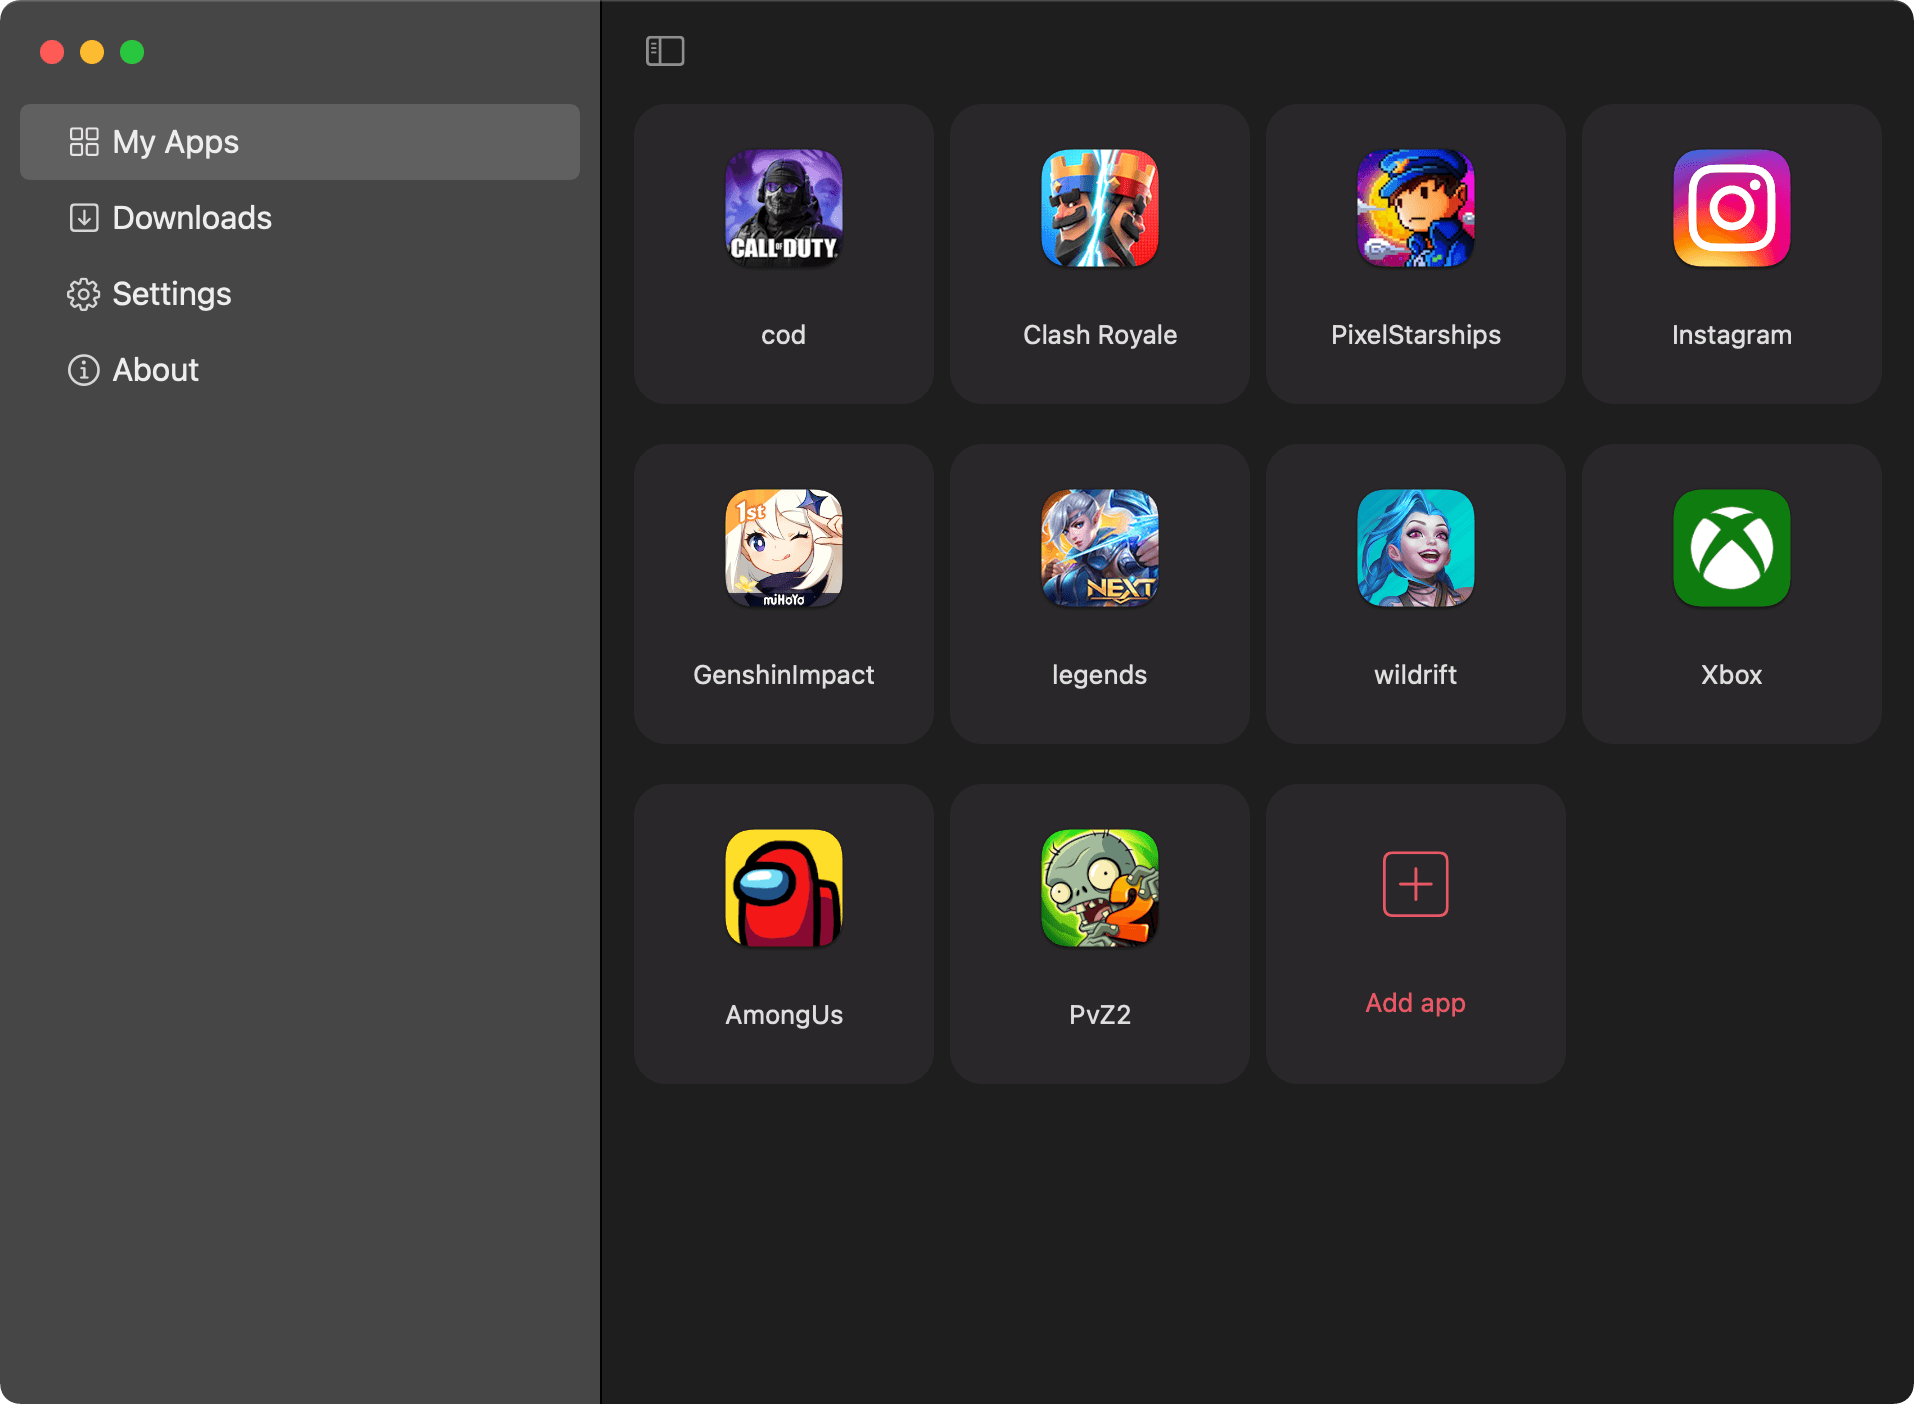
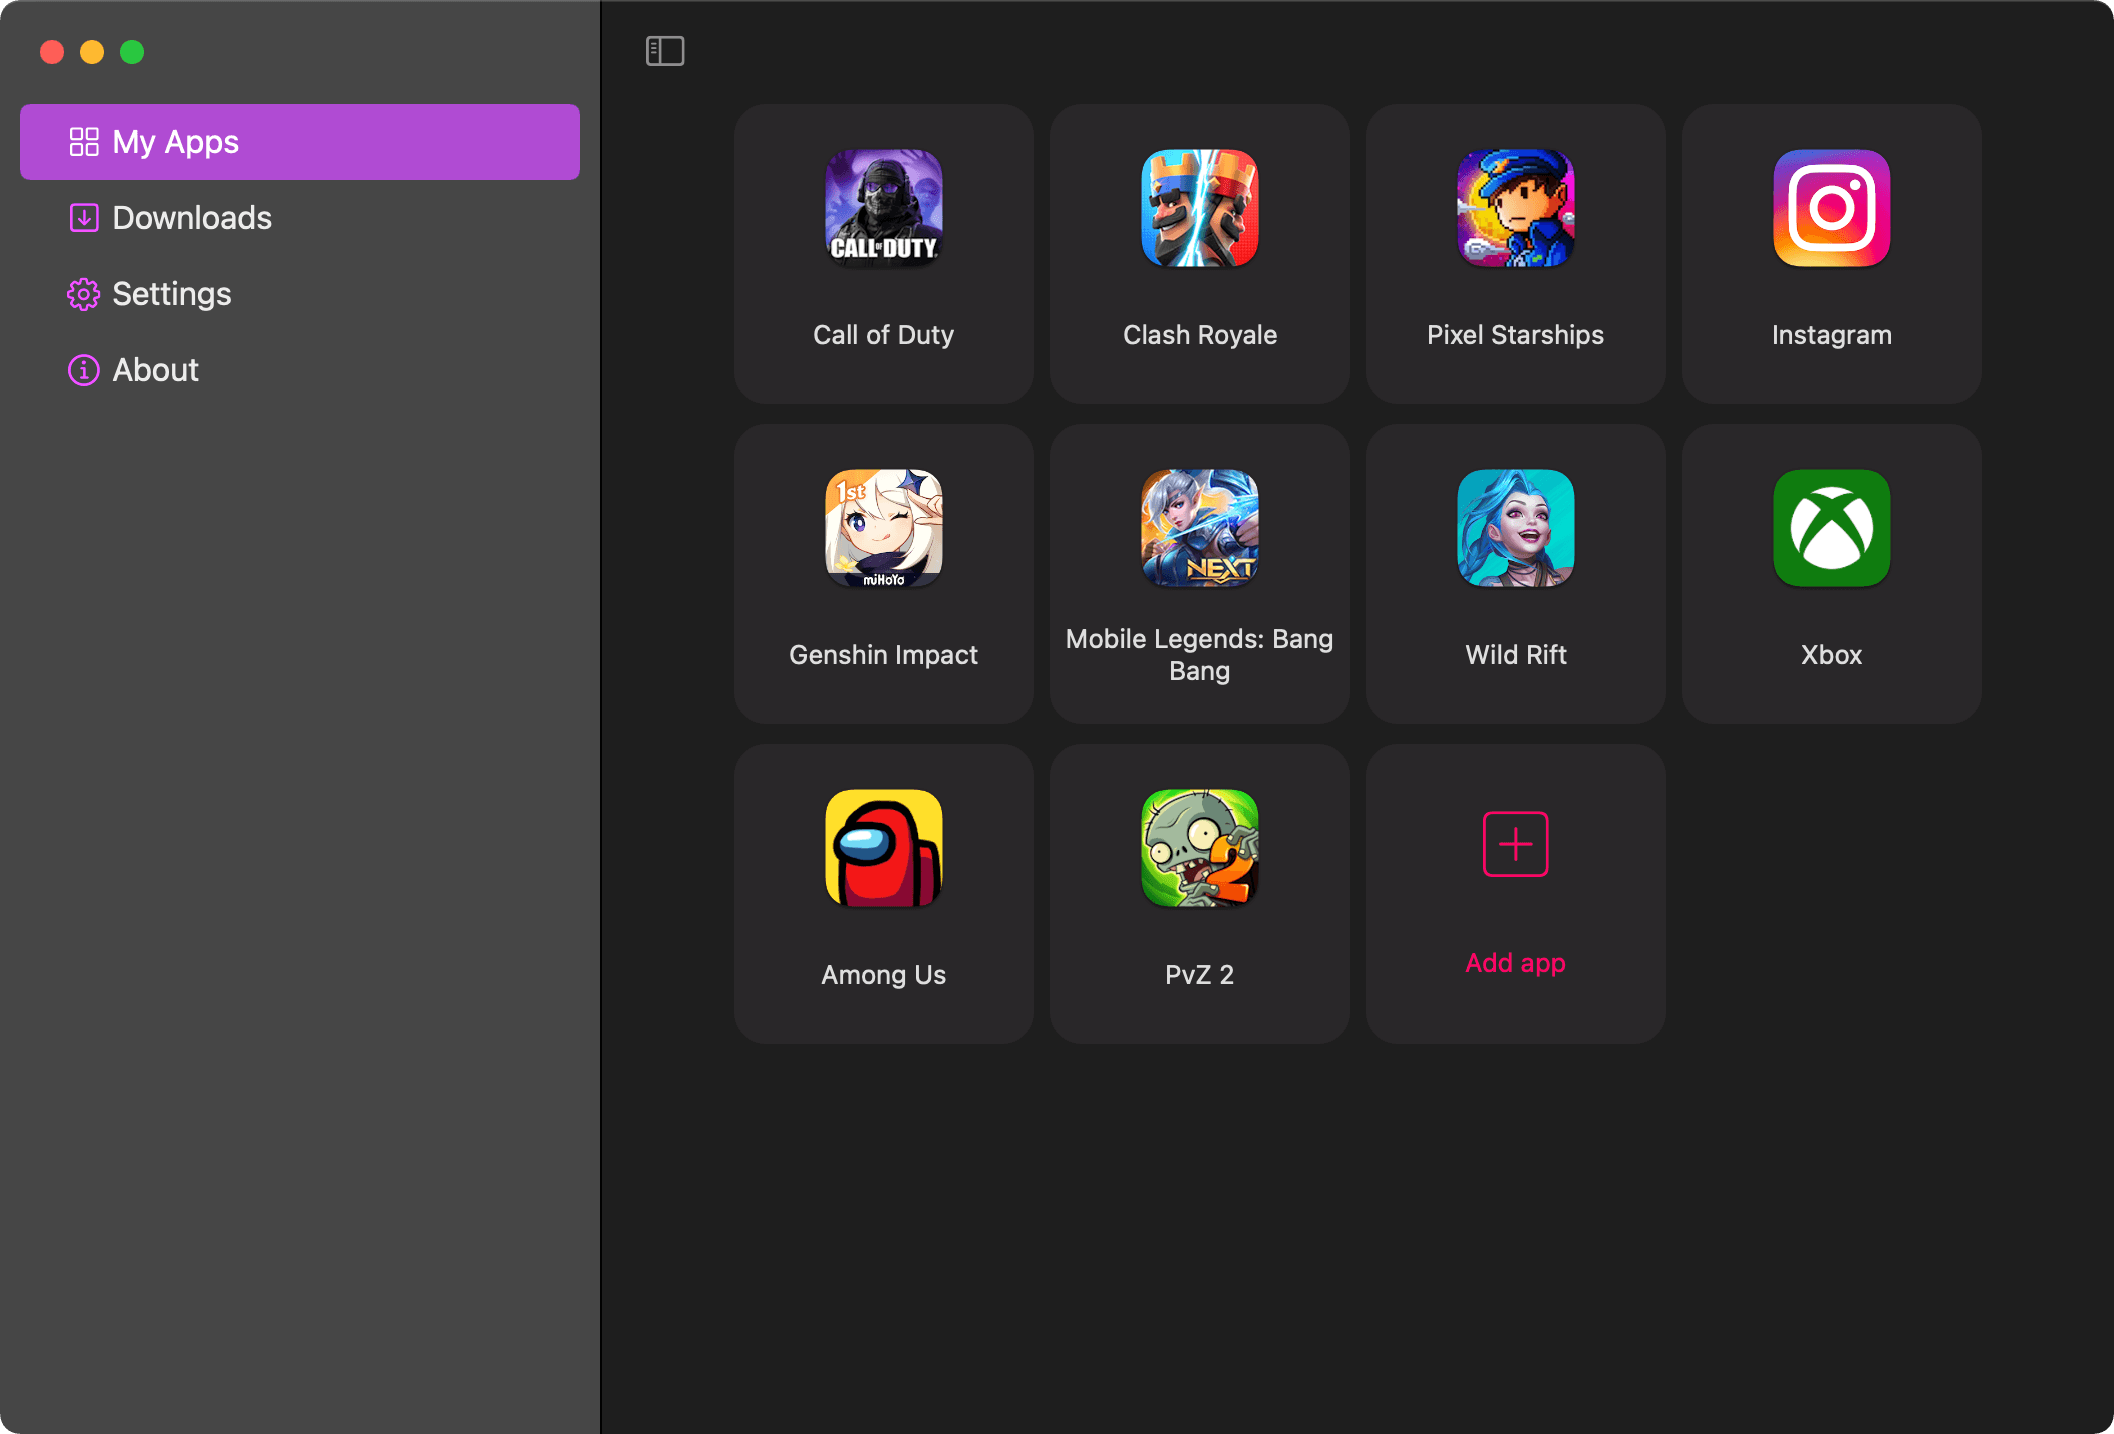
added new screenshots

diff --git a/public/index.html b/public/index.html
@@ -175,7 +175,7 @@
 		<div class="auto-closer hidden z-10 w-[100%] h-2 absolute"></div>
 
 		<!-- content -->
-		<main>
+		<main class="2xl:pt-8">
 			<!-- hero section -->
 			<section id="hero-content" class="flex flex-col items-center lg:items-start lg:flex-row justify-center space-y-10 lg:space-y-0 lg:space-x-20 2xl:space-x-48 pt-28 pb-4 md:pb-8 lg:mt-auto">
 				<!-- text -->
@@ -240,9 +240,9 @@
 						<!-- bg gradient -->
 						<!-- <div class="rounded-lg absolute -inset-0.5 bg-gradient-to-b from-red-500 to-yellow-500 blur opacity-30 dark:opacity-40 md:group-hover:opacity-50 md:dark:group-hover:opacity-70 transform md:group-hover:scale-105 transition ease-out duration-1000 group-hover:duration-700"></div> -->
 
-						<img class="shadow-md dark:hidden max-w-xs md:max-w-[44.7rem] 2xl:max-w-[55rem] rounded-lg transition ease-out duration-1000 group-hover:duration-700" src="/assets/playcover-screenshot-light.png" alt="playcover screenshot light" />
+						<img class="shadow-md dark:hidden max-w-xs md:max-w-[48rem] 2xl:max-w-[58.5rem] rounded-lg transition ease-out duration-1000 group-hover:duration-700" src="/assets/playcover-screenshot-light.png" alt="playcover screenshot light" />
 
-						<img class="shadow-md hidden dark:block max-w-xs md:max-w-[44.7rem] 2xl:max-w-[55rem] rounded-lg transition ease-out duration-1000 group-hover:duration-700" src="/assets/playcover-screenshot-dark.png" alt="playcover screenshot light" />
+						<img class="shadow-md hidden dark:block max-w-xs md:max-w-[48rem] 2xl:max-w-[58.5rem] rounded-lg transition ease-out duration-1000 group-hover:duration-700" src="/assets/playcover-screenshot-dark.png" alt="playcover screenshot dark" />
 					</div>
 				</div>
 			</section>

diff --git a/public/lang/cn/index.html b/public/lang/cn/index.html
@@ -175,7 +175,7 @@
 		<div class="auto-closer hidden z-10 w-[100%] h-2 absolute"></div>
 
 		<!-- content -->
-		<main>
+		<main class="2xl:pt-8">
 			<!-- hero section -->
 			<section id="hero-content" class="flex flex-col items-center lg:items-start lg:flex-row justify-center space-y-10 lg:space-y-0 lg:space-x-20 2xl:space-x-48 pt-28 pb-4 md:pb-8 lg:mt-auto">
 				<!-- text -->
@@ -240,9 +240,9 @@
 						<!-- bg gradient -->
 						<!-- <div class="rounded-lg absolute -inset-0.5 bg-gradient-to-b from-red-500 to-yellow-500 blur opacity-30 dark:opacity-40 md:group-hover:opacity-50 md:dark:group-hover:opacity-70 transform md:group-hover:scale-105 transition ease-out duration-1000 group-hover:duration-700"></div> -->
 
-						<img class="shadow-md dark:hidden max-w-xs md:max-w-[44.7rem] 2xl:max-w-[55rem] rounded-lg transition ease-out duration-1000 group-hover:duration-700" src="/assets/playcover-screenshot-light.png" alt="playcover screenshot light" />
+						<img class="shadow-md dark:hidden max-w-xs md:max-w-[48rem] 2xl:max-w-[58.5rem] rounded-lg transition ease-out duration-1000 group-hover:duration-700" src="/assets/playcover-screenshot-light.png" alt="playcover screenshot light" />
 
-						<img class="shadow-md hidden dark:block max-w-xs md:max-w-[44.7rem] 2xl:max-w-[55rem] rounded-lg transition ease-out duration-1000 group-hover:duration-700" src="/assets/playcover-screenshot-dark.png" alt="playcover screenshot light" />
+						<img class="shadow-md hidden dark:block max-w-xs md:max-w-[48rem] 2xl:max-w-[58.5rem] rounded-lg transition ease-out duration-1000 group-hover:duration-700" src="/assets/playcover-screenshot-dark.png" alt="playcover screenshot dark" />
 					</div>
 				</div>
 			</section>

diff --git a/public/lang/de/index.html b/public/lang/de/index.html
@@ -176,7 +176,7 @@
 		<div class="auto-closer hidden z-10 w-[100%] h-2 absolute"></div>
 
 		<!-- content -->
-		<main>
+		<main class="2xl:pt-8">
 			<!-- hero section -->
 			<section id="hero-content" class="flex flex-col items-center lg:items-start lg:flex-row justify-center space-y-10 lg:space-y-0 lg:space-x-20 2xl:space-x-48 pt-28 pb-4 md:pb-8 lg:mt-auto">
 				<!-- text -->
@@ -241,9 +241,9 @@
 						<!-- bg gradient -->
 						<!-- <div class="rounded-lg absolute -inset-0.5 bg-gradient-to-b from-red-500 to-yellow-500 blur opacity-30 dark:opacity-40 md:group-hover:opacity-50 md:dark:group-hover:opacity-70 transform md:group-hover:scale-105 transition ease-out duration-1000 group-hover:duration-700"></div> -->
 
-						<img class="shadow-md dark:hidden max-w-xs md:max-w-[44.7rem] 2xl:max-w-[55rem] rounded-lg transition ease-out duration-1000 group-hover:duration-700" src="/assets/playcover-screenshot-light.png" alt="playcover screenshot light" />
+						<img class="shadow-md dark:hidden max-w-xs md:max-w-[48rem] 2xl:max-w-[58.5rem] rounded-lg transition ease-out duration-1000 group-hover:duration-700" src="/assets/playcover-screenshot-light.png" alt="playcover screenshot light" />
 
-						<img class="shadow-md hidden dark:block max-w-xs md:max-w-[44.7rem] 2xl:max-w-[55rem] rounded-lg transition ease-out duration-1000 group-hover:duration-700" src="/assets/playcover-screenshot-dark.png" alt="playcover screenshot light" />
+						<img class="shadow-md hidden dark:block max-w-xs md:max-w-[48rem] 2xl:max-w-[58.5rem] rounded-lg transition ease-out duration-1000 group-hover:duration-700" src="/assets/playcover-screenshot-dark.png" alt="playcover screenshot dark" />
 					</div>
 				</div>
 			</section>

diff --git a/public/lang/es/index.html b/public/lang/es/index.html
@@ -176,7 +176,7 @@
 		<div class="auto-closer hidden z-10 w-[100%] h-2 absolute"></div>
 
 		<!-- content -->
-		<main>
+		<main class="2xl:pt-8">
 			<!-- hero section -->
 			<section id="hero-content" class="flex flex-col items-center lg:items-start lg:flex-row justify-center space-y-10 lg:space-y-0 lg:space-x-20 2xl:space-x-48 pt-28 pb-4 md:pb-8 lg:mt-auto">
 				<!-- text -->
@@ -241,9 +241,9 @@
 						<!-- bg gradient -->
 						<!-- <div class="rounded-lg absolute -inset-0.5 bg-gradient-to-b from-red-500 to-yellow-500 blur opacity-30 dark:opacity-40 md:group-hover:opacity-50 md:dark:group-hover:opacity-70 transform md:group-hover:scale-105 transition ease-out duration-1000 group-hover:duration-700"></div> -->
 
-						<img class="shadow-md dark:hidden max-w-xs md:max-w-[44.7rem] 2xl:max-w-[55rem] rounded-lg transition ease-out duration-1000 group-hover:duration-700" src="/assets/playcover-screenshot-light.png" alt="playcover screenshot light" />
+						<img class="shadow-md dark:hidden max-w-xs md:max-w-[48rem] 2xl:max-w-[58.5rem] rounded-lg transition ease-out duration-1000 group-hover:duration-700" src="/assets/playcover-screenshot-light.png" alt="playcover screenshot light" />
 
-						<img class="shadow-md hidden dark:block max-w-xs md:max-w-[44.7rem] 2xl:max-w-[55rem] rounded-lg transition ease-out duration-1000 group-hover:duration-700" src="/assets/playcover-screenshot-dark.png" alt="playcover screenshot light" />
+						<img class="shadow-md hidden dark:block max-w-xs md:max-w-[48rem] 2xl:max-w-[58.5rem] rounded-lg transition ease-out duration-1000 group-hover:duration-700" src="/assets/playcover-screenshot-dark.png" alt="playcover screenshot dark" />
 					</div>
 				</div>
 			</section>

diff --git a/public/lang/ru/index.html b/public/lang/ru/index.html
@@ -176,7 +176,7 @@
 		<div class="auto-closer hidden z-10 w-[100%] h-2 absolute"></div>
 
 		<!-- content -->
-		<main>
+		<main class="2xl:pt-8">
 			<!-- hero section -->
 			<section id="hero-content" class="flex flex-col items-center lg:items-start lg:flex-row justify-center space-y-10 lg:space-y-0 lg:space-x-20 2xl:space-x-48 pt-28 pb-4 md:pb-8 lg:mt-auto">
 				<!-- text -->
@@ -241,9 +241,9 @@
 						<!-- bg gradient -->
 						<!-- <div class="rounded-lg absolute -inset-0.5 bg-gradient-to-b from-red-500 to-yellow-500 blur opacity-30 dark:opacity-40 md:group-hover:opacity-50 md:dark:group-hover:opacity-70 transform md:group-hover:scale-105 transition ease-out duration-1000 group-hover:duration-700"></div> -->
 
-						<img class="shadow-md dark:hidden max-w-xs md:max-w-[44.7rem] 2xl:max-w-[55rem] rounded-lg transition ease-out duration-1000 group-hover:duration-700" src="/assets/playcover-screenshot-light.png" alt="playcover screenshot light" />
+						<img class="shadow-md dark:hidden max-w-xs md:max-w-[48rem] 2xl:max-w-[58.5rem] rounded-lg transition ease-out duration-1000 group-hover:duration-700" src="/assets/playcover-screenshot-light.png" alt="playcover screenshot light" />
 
-						<img class="shadow-md hidden dark:block max-w-xs md:max-w-[44.7rem] 2xl:max-w-[55rem] rounded-lg transition ease-out duration-1000 group-hover:duration-700" src="/assets/playcover-screenshot-dark.png" alt="playcover screenshot light" />
+						<img class="shadow-md hidden dark:block max-w-xs md:max-w-[48rem] 2xl:max-w-[58.5rem] rounded-lg transition ease-out duration-1000 group-hover:duration-700" src="/assets/playcover-screenshot-dark.png" alt="playcover screenshot dark" />
 					</div>
 				</div>
 			</section>

diff --git a/public/lang/id/index.html b/public/lang/id/index.html
@@ -241,9 +241,9 @@
 						<!-- bg gradient -->
 						<!-- <div class="rounded-lg absolute -inset-0.5 bg-gradient-to-b from-red-500 to-yellow-500 blur opacity-30 dark:opacity-40 md:group-hover:opacity-50 md:dark:group-hover:opacity-70 transform md:group-hover:scale-105 transition ease-out duration-1000 group-hover:duration-700"></div> -->
 
-						<img class="shadow-md dark:hidden max-w-xs md:max-w-[44.7rem] 2xl:max-w-[55rem] rounded-lg transition ease-out duration-1000 group-hover:duration-700" src="/assets/playcover-screenshot-light.png" alt="playcover screenshot light" />
+						<img class="shadow-md dark:hidden max-w-xs md:max-w-[48rem] 2xl:max-w-[58.5rem] rounded-lg transition ease-out duration-1000 group-hover:duration-700" src="/assets/playcover-screenshot-light.png" alt="playcover screenshot light" />
 
-						<img class="shadow-md hidden dark:block max-w-xs md:max-w-[44.7rem] 2xl:max-w-[55rem] rounded-lg transition ease-out duration-1000 group-hover:duration-700" src="/assets/playcover-screenshot-dark.png" alt="playcover screenshot light" />
+						<img class="shadow-md hidden dark:block max-w-xs md:max-w-[48rem] 2xl:max-w-[58.5rem] rounded-lg transition ease-out duration-1000 group-hover:duration-700" src="/assets/playcover-screenshot-dark.png" alt="playcover screenshot dark" />
 					</div>
 				</div>
 			</section>

diff --git a/public/css/styles.css b/public/css/styles.css
@@ -2250,6 +2250,22 @@ video {
     max-width: 44.7rem;
   }
 
+  .md\:max-w-\[50rem\] {
+    max-width: 50rem;
+  }
+
+  .md\:max-w-\[100rem\] {
+    max-width: 100rem;
+  }
+
+  .md\:max-w-\[47rem\] {
+    max-width: 47rem;
+  }
+
+  .md\:max-w-\[48rem\] {
+    max-width: 48rem;
+  }
+
   .md\:scale-100 {
     --tw-scale-x: 1;
     --tw-scale-y: 1;
@@ -2527,10 +2543,26 @@ video {
     max-width: 55rem;
   }
 
+  .\32xl\:max-w-\[60rem\] {
+    max-width: 60rem;
+  }
+
+  .\32xl\:max-w-\[59rem\] {
+    max-width: 59rem;
+  }
+
+  .\32xl\:max-w-\[58\.5rem\] {
+    max-width: 58.5rem;
+  }
+
   .\32xl\:space-x-48 > :not([hidden]) ~ :not([hidden]) {
     --tw-space-x-reverse: 0;
     margin-right: calc(12rem * var(--tw-space-x-reverse));
     margin-left: calc(12rem * calc(1 - var(--tw-space-x-reverse)));
+  }
+
+  .\32xl\:pt-8 {
+    padding-top: 2rem;
   }
 }
 
